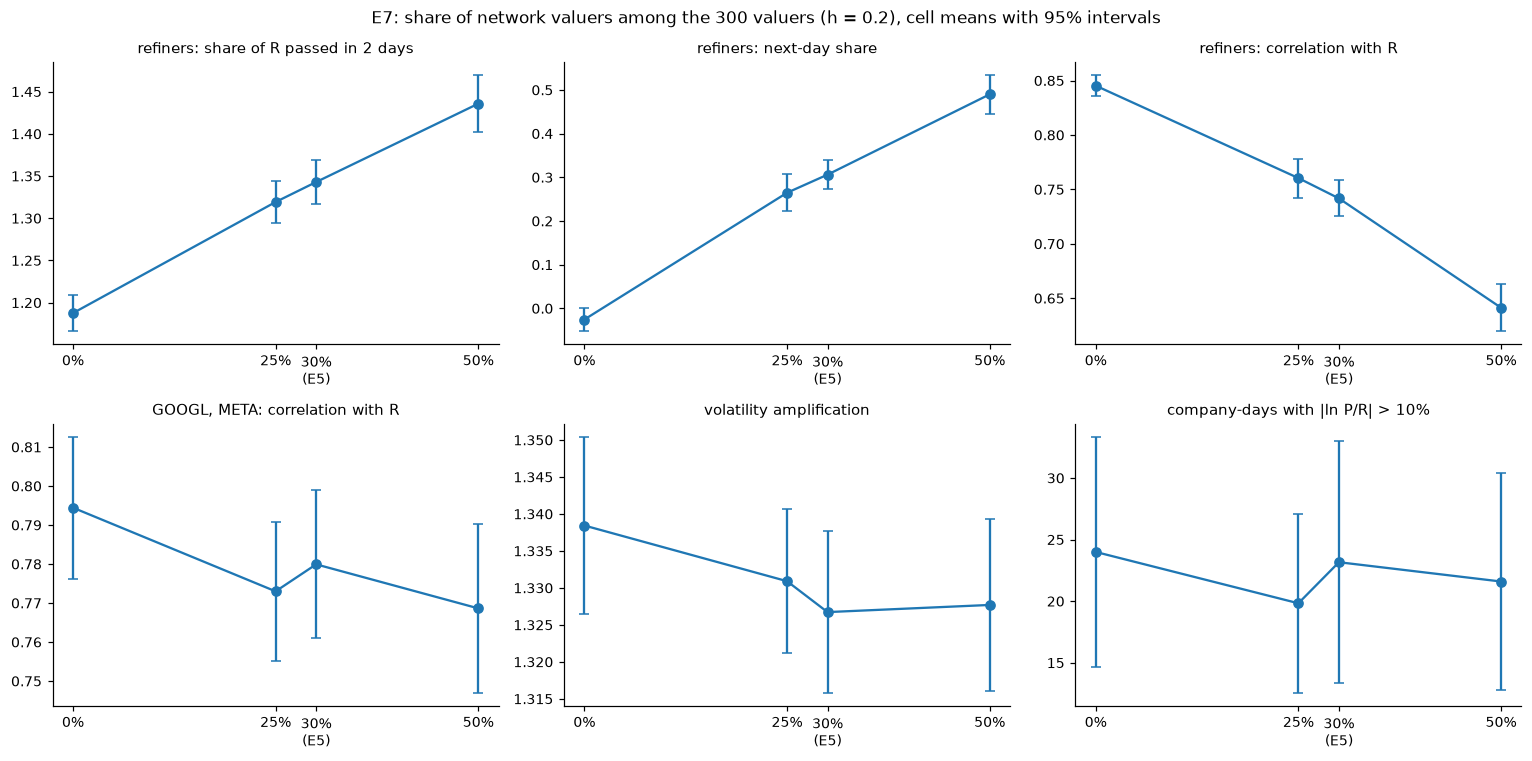
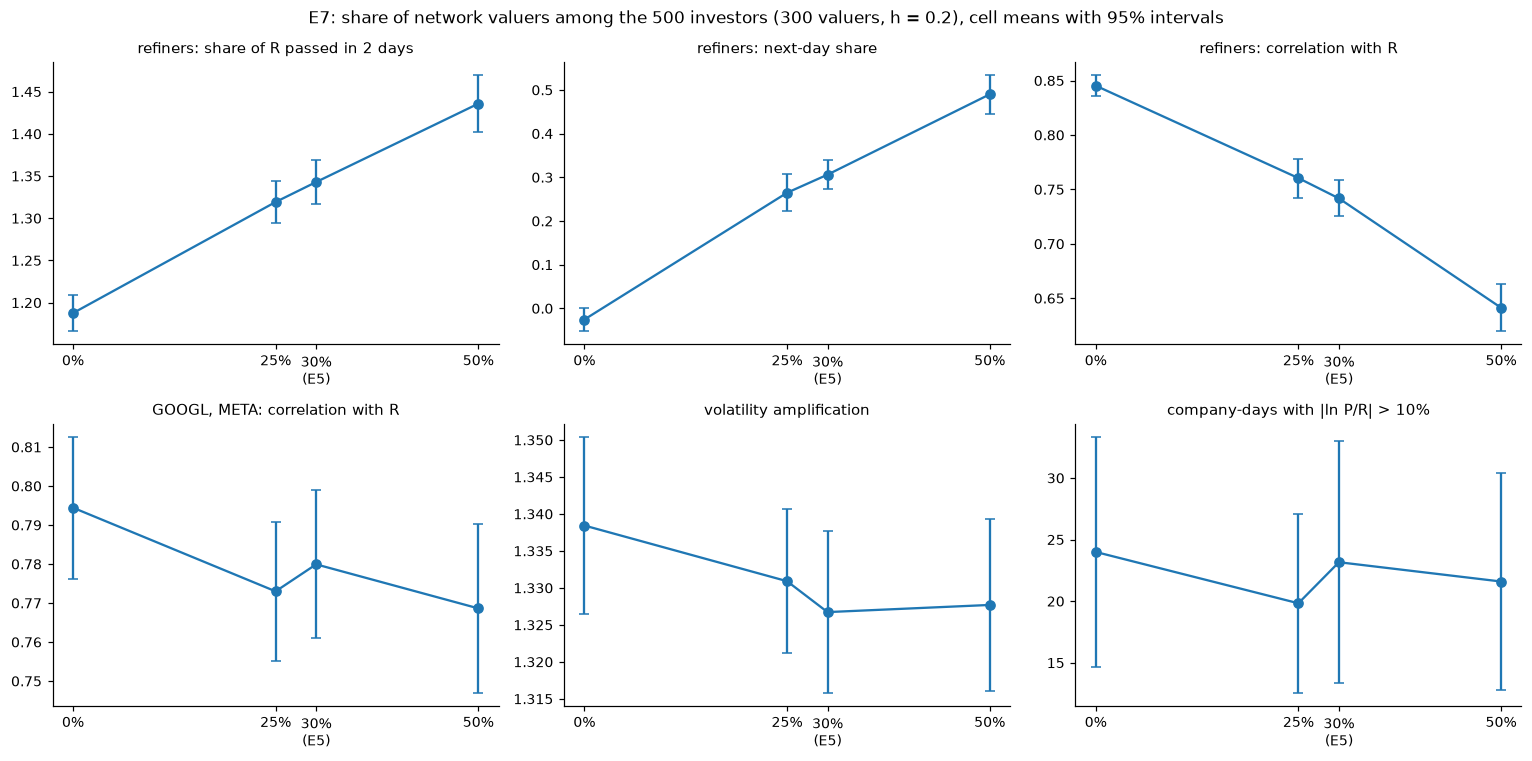
docs: protocol errata and regenerated E7 and out-of-sample figures

Changed region(s): [[0.2148, 0.0, 0.7977, 0.0302]]

diff --git a/docs/plans/main_study_protocol.md b/docs/plans/main_study_protocol.md
@@ -102,3 +102,14 @@ scripts/run_main_study.sh                           # ~6 ч на 10 процес
 Скрипт по очереди: готовит контроли (`python -m marketsim.validation.run prepare`), считает все прогоны, затем таблицы ответов (`python -m marketsim.analysis.study`), проверки F8 (`python -m marketsim.validation.run checks`), рисунки отчёта (`python -m marketsim.analysis.figures`) и страницу сравнения экспериментов.
 
 Таблицы лежат рядом с прогонами: `runs/main/e5/p5_*.csv`, `runs/main/e6/p6_*.csv`, `runs/main/e7/p7_*.csv`, `runs/main/validation/*.csv`.
+
+## 11. Исправления после прогона (errata)
+
+Протокол заморожен коммитом `99c62a7`. Этот раздел добавлен 26.11.2026, после основного прогона, по итогам внешнего аудита. Правила решения он не меняет: исправляет описания, которые не совпадали с конфигурациями и кодом, и называет дополнительные таблицы (вне правил протокола).
+
+1. **E7, знаменатель.** Доли 0/25/50% — это доли сетевых оценщиков среди **всех 500 инвесторов**: 0, 125 и 250 сетевых из 300 оценщиков, то есть 0/42/83% оценщиков. Так E7 задуман в `docs/guides/f7_experiments.md` и так заданы конфигурации; формулировка «среди 300» в §4 ошибочна. Контраст H5 «50% − 0%» сравнивает 250 и 0 сетевых. Ячейка E5 mixed, h = 0,2 (150 сетевых, половина оценщиков) против 0% — дополнительно в `runs/main/e7/p7_contrasts_extra.csv`.
+2. **E6b, горизонт.** Новость приходит в начале сессии 20; горизонт k — закрытие k-й сессии после сессии с новостью (k = 1 — закрытие сессии 21). Закрытие самой сессии с новостью (k = 0) — дополнительно в `runs/main/e6/p6_shock_extra.csv`.
+3. **Правило обвала в E6b не применяется:** новость намеренно уводит P от R, R её не содержит. Порог пересекают 32 из 60 прогонов с новостью (`p6_shock_extra.csv`); обвалы считаются по остальным 570 прогонам.
+4. **Частота метрик.** `vol_amp` и `lag` считаются на сетке с шагом 0,25 сессии (`marketsim.metrics.wave`), остальные метрики — по закрытиям сессий.
+5. **Коммиты в `meta.json`.** Прогоны записали коммиты ветки документации (`e0ee723`, `d53e798`, `bdf3528`) и `99c62a7`; код симуляции (`agents`, `sim`, `market`, `graph`, `cpp`, `configs/main`) во всех четырёх идентичен.
+6. **Дополнительная проверка валидации:** R только с прямыми экспозициями (без рёбер между компаниями) — строка `R (direct exposures)` в `runs/main/validation/out_of_sample.csv` и `events_*.csv`.
